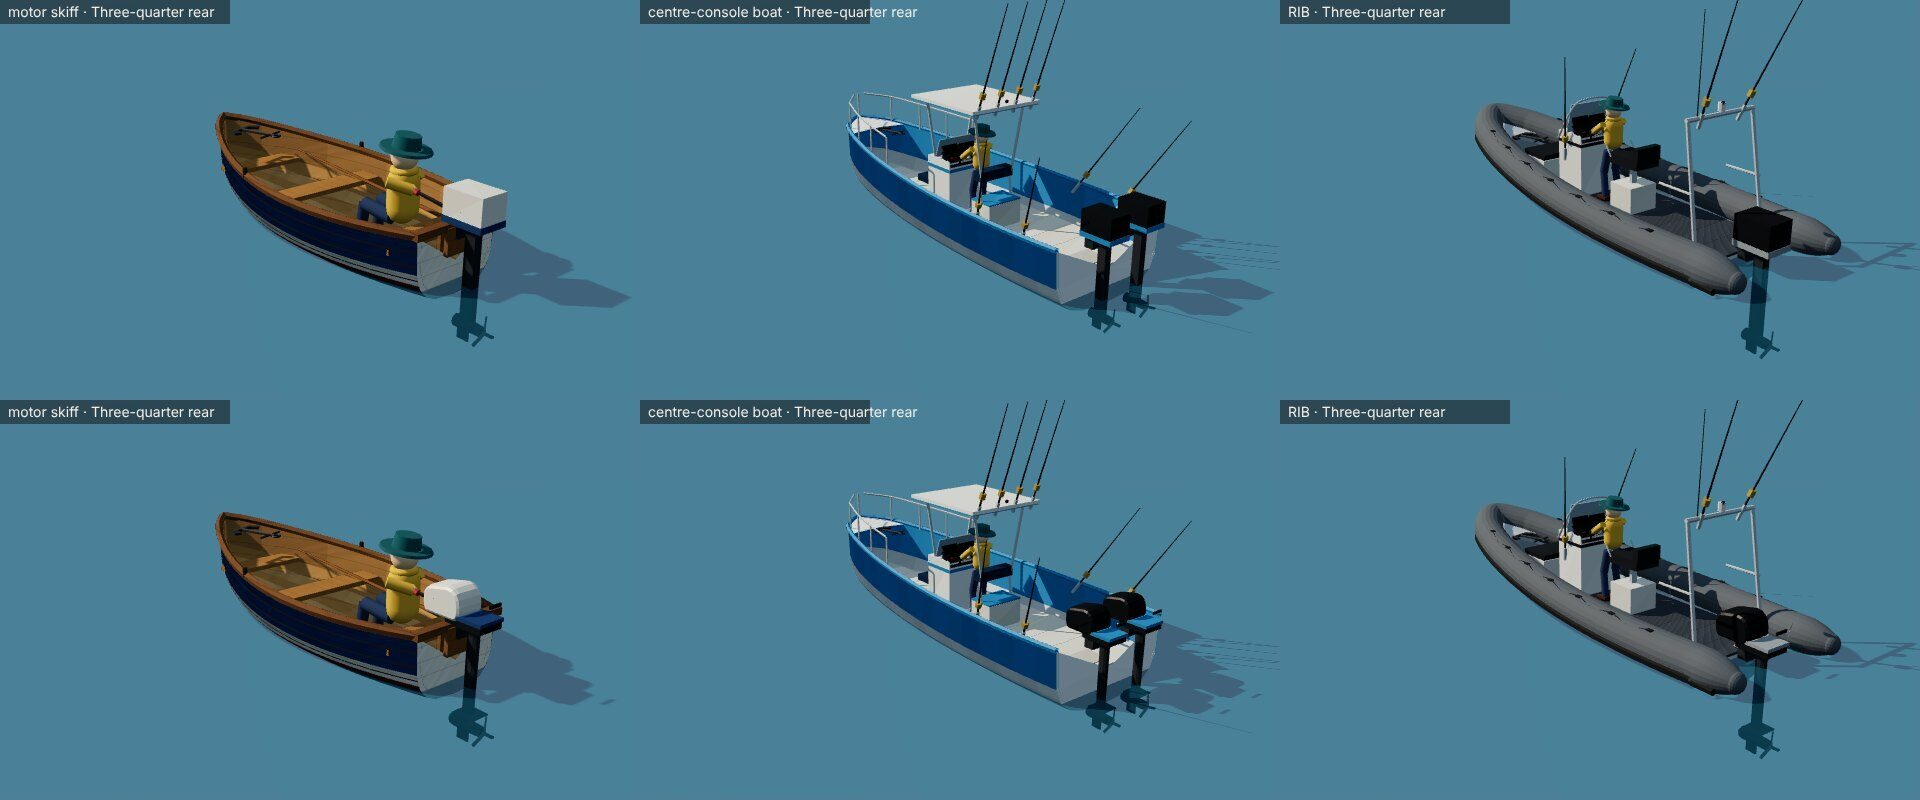
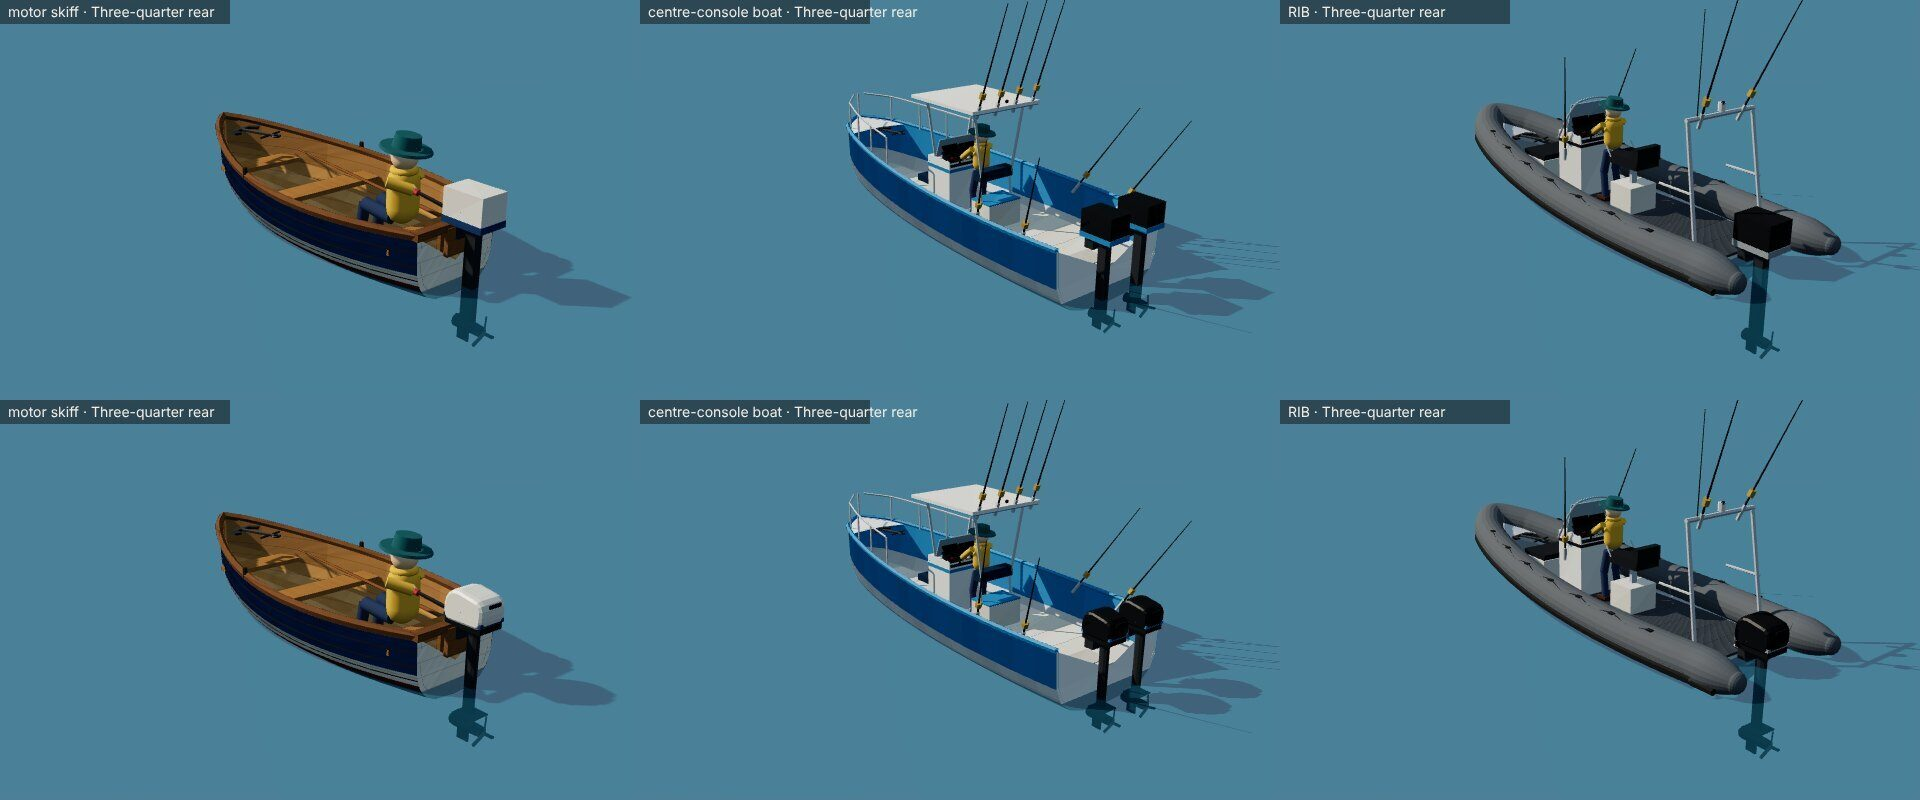
Fleet A5: the outboard's cowling the right way round
The profile was turned back to front, so the cowling's back reached
0.33 m forward over the transom (caught by tests/bassboat.test.mjs: no
tiller on a wheel-steered boat). Turned so its front is forward; the
outboard test now checks the forward reach too. The outboard comparison
and the fleet lineup re-rendered.

Claude-Session: https://claude.ai/code/session_01BGtkwPGGxMNWzNUrW4iRKf

diff --git a/src/boat.js b/src/boat.js
@@ -1813,8 +1813,9 @@ export class Boat {
     P.quadraticCurveTo(za - 0.01, yt - 0.04 * tall, za, y0 + (yt - y0) * 0.4);
     P.quadraticCurveTo(za, y0, za + 0.03, y0);
     const cowl = new THREE.ExtrudeGeometry(P, { depth: 0.2, bevelEnabled: true, bevelThickness: 0.05, bevelSize: 0.03, bevelSegments: 2, curveSegments: 4 });
-    cowl.rotateY(Math.PI / 2);
-    cowl.translate(-0.1, 0, 0);
+    // (The profile's x is the boat's z: turned so, forward to the front.)
+    cowl.rotateY(-Math.PI / 2);
+    cowl.translate(0.1, 0, 0);
     const leg = new THREE.CylinderGeometry(0.065, 0.06, 0.9, 10);
     leg.scale(0.6, 1, 1);
     const nose = new THREE.SphereGeometry(0.06, 10, 6);

diff --git a/src/version.js b/src/version.js
@@ -5,6 +5,6 @@
 // of the game does, so two copies with the same BUILD are the same game.
 export const RELEASE = 97;
 // <build> Written by tools/build-sw.mjs: do not edit by hand.
-export const BUILD = 'c433e32cac66';
+export const BUILD = 'e4557f67950c';
 export const BUILT = '2026-11-12';
 // </build>

diff --git a/sw.js b/sw.js
@@ -11,7 +11,7 @@
 // - It never touches saved games: those live in the browser's local storage, not here.
 
 // <precache> Written by tools/build-sw.mjs: do not edit by hand.
-const VERSION = 'c433e32cac66';
+const VERSION = 'e4557f67950c';
 const FILES = [
   './index.html',
   './style.css',

diff --git a/docs/IMPROVEMENTS.md b/docs/IMPROVEMENTS.md
@@ -634,5 +634,5 @@ Ranked by player impact, then risk and effort. ✅ done, ⏳ in progress.
 | Player benefit | Outboards that look like outboards on every boat; a harbour or a passing boat costs much less to draw from out at sea |
 | Before | Lying off Willowhaven in the skiff (software rendering): 719 draw calls, 1.32 M triangles, 13.9 ms. The harbour on foot: 341 and 345 calls |
 | After | `docs/fleet/after/outboard-compare.jpg` (the skiff, the console and the RIB from astern: before above, after below), `fleet.jpg` (the whole fleet abeam, one scale). Lying off Willowhaven: **534 draw calls (−26 %)**, 1.33 M triangles, 14.3 ms. The harbour on foot, its boats nearly all within 70 m: 341 and 347 calls (unchanged, as it should be). The RIB in the studio: 21,538 triangles (21,118: the new cowling, a few hundred more per engine) |
-| Validation | `tests/fleetdetail.test.mjs` (3): every outboard boat's shell inside the old envelope, a V6's taller; far off, a boat (yacht, console, RIB, cabin boat, skiff) drops parts in two steps but keeps her hull, and near again every part is back on exactly its own layers (the water-reflection layer among them); no flicker inside the slack; another scene's boats untouched; nothing of her state changed. The engine and sport-boat tests pass with the new shell |
+| Validation | `tests/fleetdetail.test.mjs` (3): every outboard boat's shell inside the old envelope, a V6's taller; far off, a boat (yacht, console, RIB, cabin boat, skiff) drops parts in two steps but keeps her hull, and near again every part is back on exactly its own layers (the water-reflection layer among them); no flicker inside the slack; another scene's boats untouched; nothing of her state changed. The engine and sport-boat tests pass with the new shell. The full suite caught a mistake on the first push: the cowling turned back to front, its back reaching 0.33 m forward over the bass boat's transom, where only a tiller may (`tests/bassboat.test.mjs`); turned the right way, and the outboard test here now checks how far forward it reaches too |
 | Remaining risks | A figure far off loses its hands and head before its body (both a pixel or two by then). Distances are fixed, not tied to the graphics preset: a later performance step (B) can scale them. Software-rendered timings; the draw-call count is the reliable figure |
